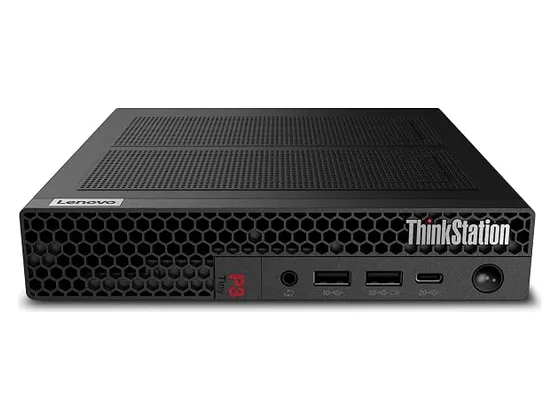
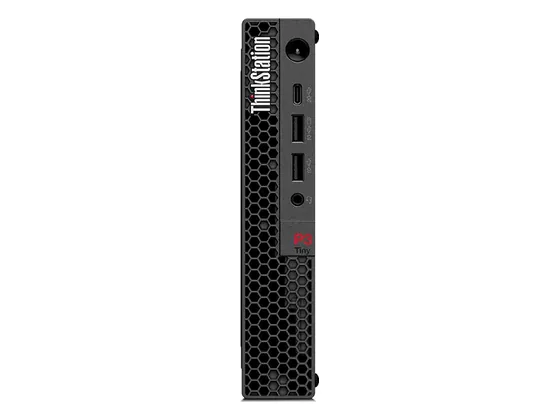
Photos : 22 visuels Amazon remplacés par des photos officielles des constructeurs
Sources listées dans _source/photos_constructeurs.json (Apple, Dell, HP, Lenovo, Acer, Asus, Microsoft, Minisforum, GMKtec, Beelink, NiPoGi, Acemagic).

Claude-Session: https://claude.ai/code/session_01JHxRTvAZAhA1pi6XidW3iQ

diff --git a/_source/build_data.py b/_source/build_data.py
@@ -149,7 +149,9 @@ def fetch_img(urls, dest):
 
 # photos : par défaut Darty > Geekom > Acer > Amazon ; exceptions quand le visuel Darty est un carton de pack ou un visuel manquant
 IMG_AMAZON_FIRST = {"zenbook-a16", "surface-pro-12", "chromebook-315", "mac-mini-m6", "mac-mini-m5pro"}
-IMG_EXTRA = {}
+# Photos constructeurs (remplacent les visuels Amazon, non autorisés hors de leur API) : voir photos_constructeurs.json.
+# Les fichiers déjà traités sont dans assets/img/p/ ; ne pas les écraser avec un visuel Amazon.
+IMG_EXTRA = {pid: [v["source"]] for pid, v in json.load(open(os.path.join(os.path.dirname(os.path.abspath(__file__)), "photos_constructeurs.json"), encoding="utf-8")).items()}
 
 if __name__ == "__main__":
     IMG = "/home/claude/img_p"; os.makedirs(IMG, exist_ok=True)

diff --git a/_source/LISEZMOI-v8.md b/_source/LISEZMOI-v8.md
@@ -14,6 +14,8 @@ Nouveautés v8 :
 - une page par ordinateur (`/pc-portable/asus-zenbook-a14/`…) : consensus presse, pour qui / à éviter si, prix par marchand, tous les tests, alternatives, FAQ ;
 - sitemap étendu aux 100 fiches.
 
+Photos : aucune image ne vient d'Amazon (leur charte ne l'autorise que via leur API). Les 22 modèles concernés utilisent une photo officielle du constructeur, listée dans `photos_constructeurs.json` ; pour toute nouvelle machine sans visuel Darty/Geekom/Acer, ajouter une photo constructeur dans ce fichier.
+
 Règles de sélection : chaque machine doit être en vente chez au moins un marchand partenaire (Amazon, Darty, Fnac, Acer Store, Geekom) et avoir au moins un test presse.
 
 À renseigner : `AMAZON_TAG` dans `build_data.py` (identifiant Partenaires Amazon) pour que tous les liens Amazon soient affiliés ; les liens Darty / Acer / Geekom sont pour l'instant directs, à remplacer par les liens Awin une fois les programmes validés.
